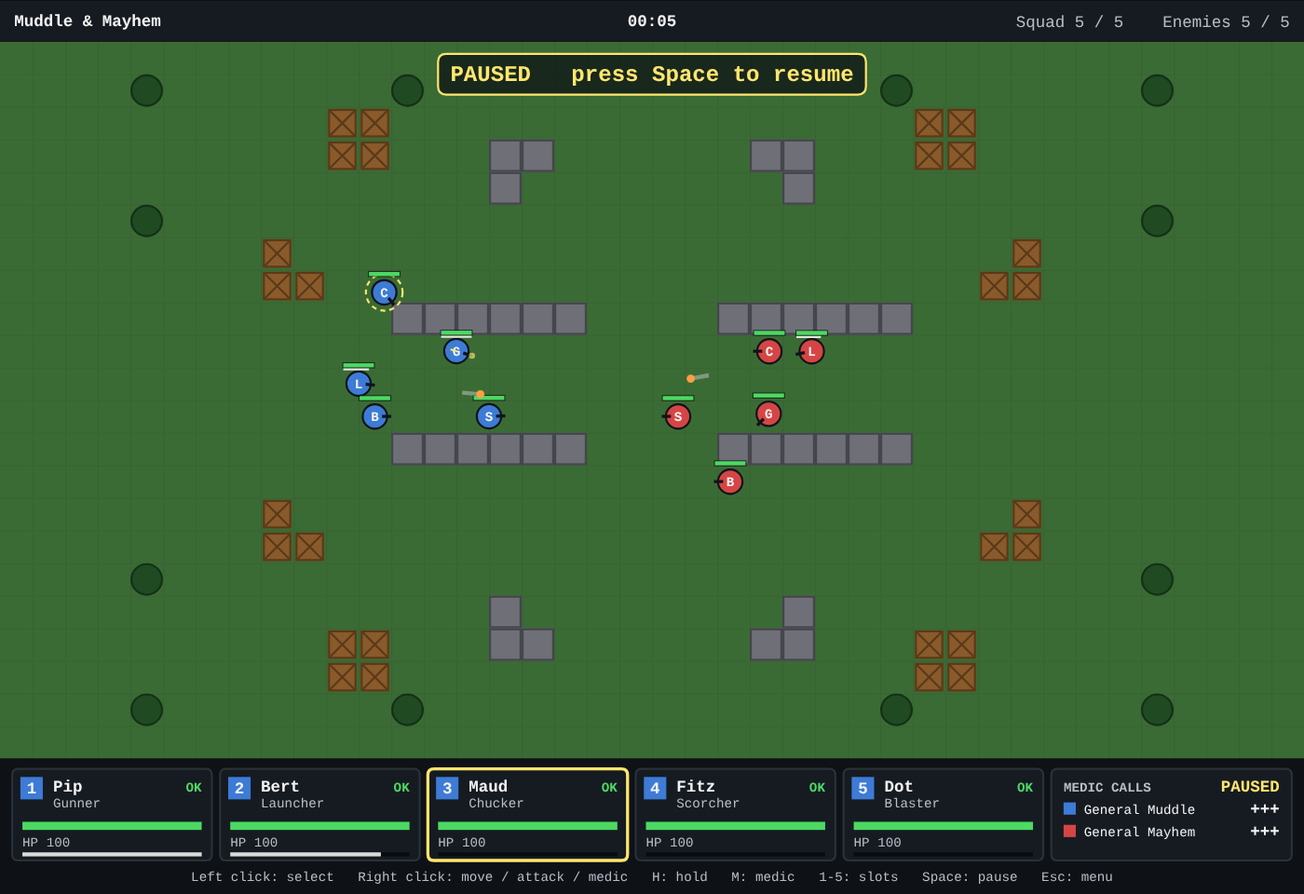
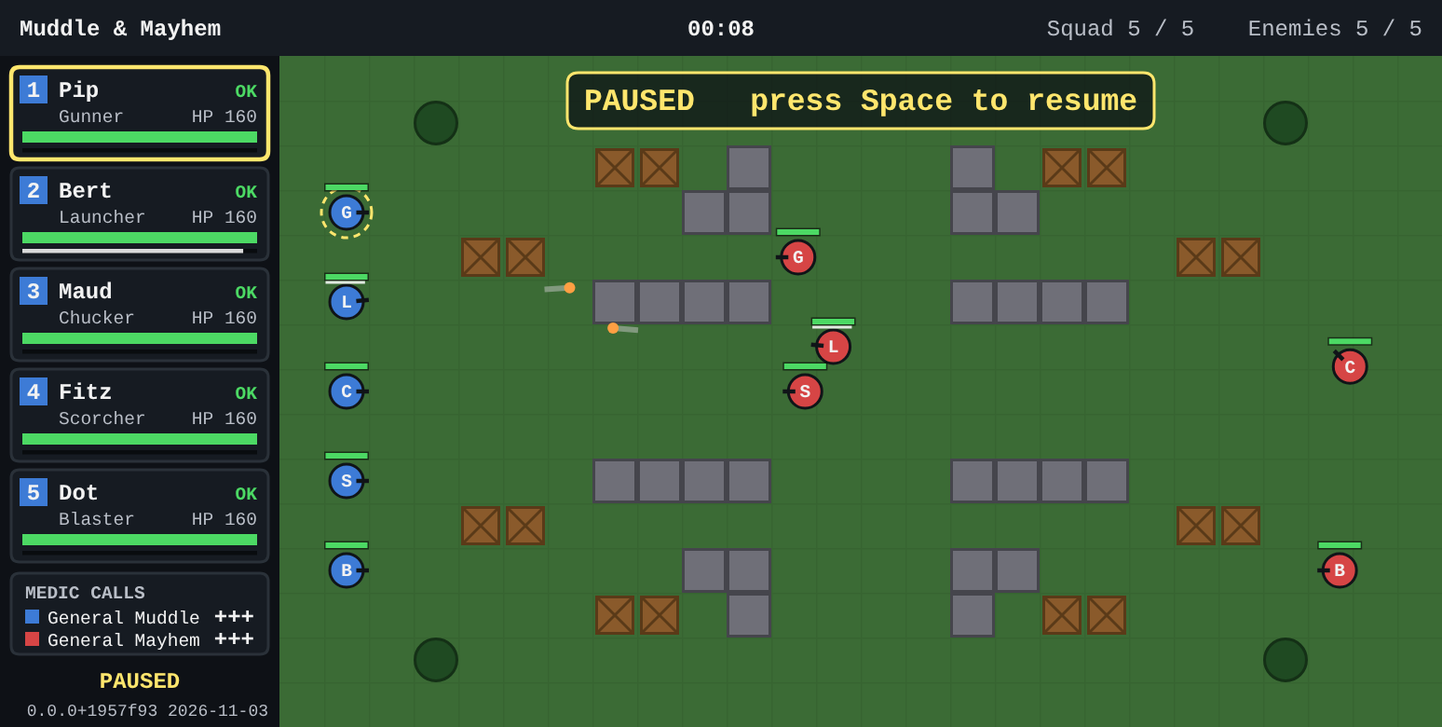
End to end tests, screenshots and README for the compact battlefield

diff --git a/e2e/play.spec.ts b/e2e/play.spec.ts
@@ -1,5 +1,7 @@
 import { expect, test } from '@playwright/test';
 import type { Page } from '@playwright/test';
+import { LOGICAL_WIDTH, TOP_BAR_HEIGHT, battleLayout } from '../src/render/renderConstants';
+import { hudCardRects, sidePanelRect } from '../src/ui/hud';
 import { resultButtons } from '../src/ui/result';
 
 // Plays a few seconds of a battle through the real page: title, start,
@@ -28,16 +30,23 @@ async function soldierClient(page: Page, id: number): Promise<{ x: number; y: nu
   }, id);
 }
 
+/** A hash of the canvas pixels inside a logical rectangle. */
+async function regionHash(page: Page, r: { x: number; y: number; w: number; h: number }): Promise<string> {
+  return page.locator('canvas#game').evaluate(
+    (c: HTMLCanvasElement, [x, y, w, h, logicalWidth]) => {
+      const scale = c.width / logicalWidth;
+      const d = c.getContext('2d')!.getImageData(Math.floor(x * scale), Math.floor(y * scale), Math.ceil(w * scale), Math.ceil(h * scale)).data;
+      let hash = 2166136261;
+      for (let i = 0; i < d.length; i += 4) hash = Math.imul(hash ^ (d[i] + 7 * d[i + 1] + 13 * d[i + 2]), 16777619);
+      return String(hash >>> 0);
+    },
+    [r.x, r.y, r.w, r.h, LOGICAL_WIDTH] as const,
+  );
+}
+
+/** The side panel beside the field, with the cards, medic calls, PAUSED and the build stamp. */
 async function hudPixels(page: Page): Promise<string> {
-  return page.locator('canvas#game').evaluate((c: HTMLCanvasElement) => {
-    const ctx = c.getContext('2d')!;
-    // the bottom fifth of the canvas is the HUD
-    const y = Math.floor(c.height * 0.85);
-    const d = ctx.getImageData(0, y, c.width, c.height - y).data;
-    let hash = 2166136261;
-    for (let i = 0; i < d.length; i += 16) hash = Math.imul(hash ^ d[i], 16777619);
-    return String(hash >>> 0);
-  });
+  return regionHash(page, sidePanelRect('blue'));
 }
 
 test('a battle can be started, ordered, run, and finished', async ({ page }) => {
@@ -80,7 +89,7 @@ test('a battle can be started, ordered, run, and finished', async ({ page }) => 
   const hudBefore = await hudPixels(page);
   await page.keyboard.press(' ');
   await page.waitForFunction(() => window.__mm!.tick >= 30, undefined, { timeout: 5000 });
-  // the PAUSED badge is gone and the clock has moved, so the HUD differs from the paused frame
+  // PAUSED is gone from the side panel and the cards have moved on, so the panel differs from the paused frame
   expect(await hudPixels(page)).not.toBe(hudBefore);
   const log = await page.evaluate(() => (window.__mm!.log as { type: string; side: string }[]));
   expect(log.filter((c) => c.side === 'blue').map((c) => c.type)).toEqual(['select', 'move', 'select', 'select', 'select', 'attack']);
@@ -135,6 +144,12 @@ test('A volleys the whole squad at the enemy under the cursor and S selects it',
 
   // Nothing selected: the volley still orders every standing soldier to stand fast, and waits in pending while paused.
   const target = await soldierClient(page, 8);
+  const targetLogical = await page.evaluate(() => {
+    const s = (window.__mm!.state as { soldiers: { x: number; y: number }[] }).soldiers[8];
+    return { x: s.x, y: s.y };
+  });
+  // the field around the target in logical canvas pixels: the field sits beside the side panel
+  const around = { x: battleLayout('blue').fieldX + targetLogical.x - 40, y: TOP_BAR_HEIGHT + targetLogical.y - 50, w: 80, h: 80 };
   await page.mouse.move(target.x + 3, target.y + 2);
   await page.keyboard.press('a');
   expect(await page.evaluate(() => [...window.__mm!.selection])).toEqual([]);
@@ -144,10 +159,21 @@ test('A volleys the whole squad at the enemy under the cursor and S selects it',
   // The volley cue is stamped on the next frame even though the battle is paused, then runs out in real time.
   await page.waitForFunction(() => (window.__mm!.volleyCue as { startMs: number | null } | null)?.startMs != null);
   expect(await page.evaluate(() => (window.__mm!.volleyCue as { targetId: number }).targetId)).toBe(8);
+  // the ring and the VOLLEY label are drawn over the target, at the field's place beside the side panel
+  const during = await regionHash(page, around);
   await page.waitForFunction(() => window.__mm!.volleyCue === null, undefined, { timeout: 3000 });
+  await page.waitForTimeout(100);
+  // once it runs out only the queued order's ghost reticle is left there
+  expect(await regionHash(page, around)).not.toBe(during);
 
   // S selects the whole squad.
   await page.keyboard.press('s');
   expect(await page.evaluate(() => [...window.__mm!.selection])).toEqual([0, 1, 2, 3, 4]);
+
+  // A click on the third card in the side panel selects Maud alone.
+  const card = hudCardRects('blue')[2];
+  const at = await page.evaluate(([x, y]) => window.__mm!.logicalToClient(x, y), [card.x + card.w / 2, card.y + card.h / 2] as const);
+  await page.mouse.click(at.x, at.y);
+  expect(await page.evaluate(() => [...window.__mm!.selection])).toEqual([2]);
   expect(errors).toEqual([]);
 });

diff --git a/src/ui/result.ts b/src/ui/result.ts
@@ -6,7 +6,7 @@
  * whether the clipboard took the text or the fallback overlay has it.
  */
 import { PALETTE, SIDE_COLOUR, SIDE_NAME } from '../render/palette';
-import { LOGICAL_HEIGHT, LOGICAL_WIDTH } from '../render/renderConstants';
+import { LOGICAL_HEIGHT, LOGICAL_WIDTH, TOP_BAR_HEIGHT } from '../render/renderConstants';
 import { standingCount } from '../sim';
 import type { BattleState, Side } from '../sim';
 import { stackButtons } from './buttons';
@@ -29,8 +29,9 @@ const COPY_LABEL: Readonly<Record<CopyState, string>> = {
   shown: 'Report shown below',
 };
 
+/** Centred in the space below the top bar. */
 function panelTop(): number {
-  return (LOGICAL_HEIGHT - RESULT.panelHeight) / 2;
+  return TOP_BAR_HEIGHT + (LOGICAL_HEIGHT - TOP_BAR_HEIGHT - RESULT.panelHeight) / 2;
 }
 
 /** The panel, centred on the canvas. */
@@ -59,7 +60,7 @@ export function resultButtons(copyState: CopyState): ButtonRect[] {
     panelTop() + RESULT.buttonsTop,
     BUTTON.width,
     BUTTON.height,
-    BUTTON.gap,
+    RESULT.buttonGap,
   );
 }
 
@@ -89,7 +90,7 @@ function drawTable(ctx: CanvasRenderingContext2D, panelX: number, rows: readonly
 }
 
 export function drawResult(ctx: CanvasRenderingContext2D, state: BattleState, playerSide: Side, view: ResultView): void {
-  const panel = drawOverlayPanel(ctx, LOGICAL_WIDTH, LOGICAL_HEIGHT, RESULT.panelWidth, RESULT.panelHeight);
+  const panel = drawOverlayPanel(ctx, LOGICAL_WIDTH, LOGICAL_HEIGHT, RESULT.panelWidth, RESULT.panelHeight, panelTop());
   const winner = state.winner;
   ctx.textAlign = 'center';
   ctx.textBaseline = 'alphabetic';

diff --git a/tests/ui/screenLayout.test.ts b/tests/ui/screenLayout.test.ts
@@ -1,5 +1,5 @@
 import { describe, expect, it } from 'vitest';
-import { LOGICAL_HEIGHT, LOGICAL_WIDTH } from '../../src/render/renderConstants';
+import { LOGICAL_HEIGHT, LOGICAL_WIDTH, TOP_BAR_HEIGHT } from '../../src/render/renderConstants';
 import type { Rect } from '../../src/ui/buttons';
 import { menuButtons, menuHintLines, menuPanelRect, menuSpeedRects } from '../../src/ui/menu';
 import { resultButtons, resultPanelRect, resultRowY } from '../../src/ui/result';
@@ -76,6 +76,8 @@ describe('result screen layout', () => {
   it('fits the panel in the canvas, every table row inside the panel above the buttons', () => {
     const panel = resultPanelRect();
     inside(panel, CANVAS);
+    // below the top bar, so the TUNED and SPEED badges stay visible behind the overlay
+    expect(panel.y).toBeGreaterThanOrEqual(TOP_BAR_HEIGHT);
     const firstButton = resultButtons('idle')[0];
     for (let i = 0; i < RESULT.tableRows; i++) {
       const y = resultRowY(i);

diff --git a/src/ui/drawButtons.ts b/src/ui/drawButtons.ts
@@ -32,11 +32,19 @@ export function drawButton(ctx: CanvasRenderingContext2D, b: ButtonRect): void {
 }
 
 /** A dim overlay over the whole canvas and a centred panel of the given size; returns the panel's top-left. */
-export function drawOverlayPanel(ctx: CanvasRenderingContext2D, canvasW: number, canvasH: number, panelW: number, panelH: number): { x: number; y: number } {
+/** Dims the whole canvas and draws a panel, centred unless `top` is given. */
+export function drawOverlayPanel(
+  ctx: CanvasRenderingContext2D,
+  canvasW: number,
+  canvasH: number,
+  panelW: number,
+  panelH: number,
+  top?: number,
+): { x: number; y: number } {
   ctx.fillStyle = PALETTE.overlay;
   ctx.fillRect(0, 0, canvasW, canvasH);
   const x = (canvasW - panelW) / 2;
-  const y = (canvasH - panelH) / 2;
+  const y = top ?? (canvasH - panelH) / 2;
   roundRect(ctx, x, y, panelW, panelH, PANEL.radius);
   ctx.fillStyle = PALETTE.panel;
   ctx.fill();

diff --git a/src/ui/uiConstants.ts b/src/ui/uiConstants.ts
@@ -152,10 +152,14 @@ export const MENU = {
   hintStep: 18,
 } as const;
 
-/** The result screen: a wider panel holding the winner lines, the per-class report table and three buttons. */
+/**
+ * The result screen: a wider panel holding the winner lines, the per-class
+ * report table and three buttons. It sits below the top bar, so the TUNED
+ * and SPEED badges stay visible (dimmed) behind the overlay.
+ */
 export const RESULT = {
   panelWidth: 760,
-  panelHeight: 500,
+  panelHeight: 470,
   headingY: 44,
   standingY: 72,
   infoY: 94,
@@ -164,7 +168,8 @@ export const RESULT = {
   rowHeight: 15,
   /** Header plus five classes and a total per side. */
   tableRows: 13,
-  buttonsTop: 318,
+  buttonsTop: 310,
+  buttonGap: 10,
 } as const;
 
 /** The debug overlay: a translucent panel in the top-right corner of the battlefield, below the paused banner. */

diff --git a/docs/superpowers/plans/2026-11-03-plan-7-compact-battlefield.md b/docs/superpowers/plans/2026-11-03-plan-7-compact-battlefield.md
@@ -122,10 +122,10 @@ export function hudCardRects(playerSide: Side): ButtonRect[];   // five, stacked
 export function sidePanelRect(playerSide: Side): ButtonRect;
 ```
 
-- [ ] **Step 1: Failing tests.** `layout.test.ts`: `LOGICAL_WIDTH` 1032, `LOGICAL_HEIGHT` 520, field 832 × 480; `battleLayout('blue')` is `{ panelX: 0, fieldX: 200, top: 40 }` and `battleLayout('red')` `{ panelX: 832, fieldX: 0, top: 40 }`; the blue renderer's `worldToScreen(0, 0)` is (200, 40), `onField(199, 100)` false, `onField(200, 40)` true, `onField(1031, 519)` true. `hud.test.ts`: for both sides the five card rects lie inside `sidePanelRect`, are in slot order top to bottom, do not overlap, and leave at least 70 pixels below the last card for medic calls, pause status and build stamp. `app.test.ts`: in a battle, a left click at the centre of card *i* selects blue soldier *i* (and shift-click adds), a click in the panel below the cards selects nothing. `battle.test.ts`: `createBattle({ seed: 1 }).map` is `COMPACT_CROSSROADS`.
-- [ ] **Step 2: Run; expect failures.**
-- [ ] **Step 3: Implement.** Switch the default; derive sizes; the renderer takes the player side; `drawHud` draws the top bar across the full width, fills the panel, the stacked cards (content per decision 5), the medic calls, PAUSED and the build stamp; the controls hint is no longer drawn in battle; the paused banner and debug overlay centre or right-align on the field. Fix the tests that pinned Crossroads by default by passing `map: CROSSROADS` where the test is about Crossroads geometry.
-- [ ] **Step 4: `npm run check` green.** Commit `Compact Crossroads by default, side panel beside the field`.
+- [x] **Step 1: Failing tests.** `layout.test.ts`: `LOGICAL_WIDTH` 1032, `LOGICAL_HEIGHT` 520, field 832 × 480; `battleLayout('blue')` is `{ panelX: 0, fieldX: 200, top: 40 }` and `battleLayout('red')` `{ panelX: 832, fieldX: 0, top: 40 }`; the blue renderer's `worldToScreen(0, 0)` is (200, 40), `onField(199, 100)` false, `onField(200, 40)` true, `onField(1031, 519)` true. `hud.test.ts`: for both sides the five card rects lie inside `sidePanelRect`, are in slot order top to bottom, do not overlap, and leave at least 70 pixels below the last card for medic calls, pause status and build stamp. `app.test.ts`: in a battle, a left click at the centre of card *i* selects blue soldier *i* (and shift-click adds), a click in the panel below the cards selects nothing. `battle.test.ts`: `createBattle({ seed: 1 }).map` is `COMPACT_CROSSROADS`.
+- [x] **Step 2: Run; expect failures.**
+- [x] **Step 3: Implement.** Switch the default; derive sizes; the renderer takes the player side; `drawHud` draws the top bar across the full width, fills the panel, the stacked cards (content per decision 5), the medic calls, PAUSED and the build stamp; the controls hint is no longer drawn in battle; the paused banner and debug overlay centre or right-align on the field. Fix the tests that pinned Crossroads by default by passing `map: CROSSROADS` where the test is about Crossroads geometry.
+- [x] **Step 4: `npm run check` green.** Committed together with Task 5 (they share `uiConstants.ts`, and the result screen had to fit 520 before the suite could pass) as `Compact Crossroads by default, side panel beside the field, screens fitted to 520 high`.
 
 ### Task 5: Title, menu and result refitted to 520 (PR 3)
 
@@ -147,10 +147,10 @@ export function resultRowY(i: number): number;   // centre line of table row i
 ```
 (`Rect` is `{ x, y, w, h }`; reuse `ButtonRect`'s shape if one exists.)
 
-- [ ] **Step 1: Failing tests.** Title: every `titleLayout()` element inside 1032 × 520 and no two overlapping (portraits, start, hint, speed segments, controls block, build). Menu: panel inside the canvas; buttons, speed segments and both hint lines inside the panel; each hint line at `FONT.small` fits the panel width (count characters × 7.8). Result: panel inside the canvas; all thirteen `resultRowY` lines (header plus twelve) inside the panel and above the first button; all three buttons inside the panel and the canvas.
-- [ ] **Step 2: Run; expect failures.**
-- [ ] **Step 3: Implement.** Title: portraits flank the title text instead of sitting below it, Skirmish and its hint, the speed selector, then the controls list, build stamp bottom-right. Menu: wider, taller panel with the two hint lines at its foot. Result: panel 760 × 500, rows 15 high, tighter heading, standing and info lines, buttons stacked below the table.
-- [ ] **Step 4: `npm run check` green.** Commit `Title, menu and result screens fit 520 high`.
+- [x] **Step 1: Failing tests.** Title: every `titleLayout()` element inside 1032 × 520 and no two overlapping (portraits, start, hint, speed segments, controls block, build). Menu: panel inside the canvas; buttons, speed segments and both hint lines inside the panel; each hint line at `FONT.small` fits the panel width (count characters × 7.8). Result: panel inside the canvas; all thirteen `resultRowY` lines (header plus twelve) inside the panel and above the first button; all three buttons inside the panel and the canvas.
+- [x] **Step 2: Run; expect failures.**
+- [x] **Step 3: Implement.** Title: portraits flank the title text instead of sitting below it, Skirmish and its hint, the speed selector, then the controls list, build stamp bottom-right. Menu: wider, taller panel with the two hint lines at its foot. Result: panel 760 × 470 below the top bar (so the badges stay visible), rows 15 high, tighter heading, standing and info lines, buttons stacked below the table.
+- [x] **Step 4: `npm run check` green.** Commit `Title, menu and result screens fit 520 high`.
 
 ### Task 6: Reports name the map (PR 3)
 
@@ -158,20 +158,20 @@ export function resultRowY(i: number): number;   // centre line of table row i
 - Modify: `src/stats/reportText.ts`, `src/game/app.ts`
 - Test: `tests/stats/reportText.test.ts`, `tests/sim/replay.test.ts`
 
-- [ ] **Step 1: Failing tests.** `formatReportMarkdown(stats, log, 1, 'dev', 'compact')` contains `- Map: Compact Crossroads (\`compact\`)\n` after the build line and `replayBattle(<seed>, log, <ticks>, MAPS.compact)`; with `'crossroads'` it names `Crossroads` and `MAPS.crossroads`; with no fifth argument it uses `DEFAULT_MAP_ID`. Replay: a 900-tick AI-versus-AI battle on `MAPS.crossroads` replays to the same hash with `replayBattle(seed, log, 900, MAPS.crossroads)`, and the same call without the map does not match.
-- [ ] **Step 2: Run; expect failures.**
-- [ ] **Step 3: Implement**; the app passes `mapIdOf(session.state.map) ?? DEFAULT_MAP_ID`.
-- [ ] **Step 4: `npm run check` green.** Commit `Battle report names its map`.
+- [x] **Step 1: Failing tests.** `formatReportMarkdown(stats, log, 1, 'dev', 'compact')` contains `- Map: Compact Crossroads (\`compact\`)\n` after the build line and `replayBattle(<seed>, log, <ticks>, MAPS.compact)`; with `'crossroads'` it names `Crossroads` and `MAPS.crossroads`; with no fifth argument it uses `DEFAULT_MAP_ID`. Replay: a 900-tick AI-versus-AI battle on `MAPS.crossroads` replays to the same hash with `replayBattle(seed, log, 900, MAPS.crossroads)`, and the same call without the map does not match.
+- [x] **Step 2: Run; expect failures.**
+- [x] **Step 3: Implement**; the app passes `mapIdOf(session.state.map) ?? DEFAULT_MAP_ID`.
+- [x] **Step 4: `npm run check` green.** Commit `Battle report names its map`.
 
 ### Task 7: End to end, screenshots, README (PR 3)
 
 **Files:**
 - Modify: `e2e/play.spec.ts`, `e2e/tune.spec.ts`, `README.md`, `docs/screenshots/*.png`
 
-- [ ] **Step 1: Update the e2e tests** to the new layout: start, select a soldier by clicking it through `worldToClient`, order a move, finish via `advanceTicks`; the volley cue pixel check at the new target position; TUNED and SPEED badge pixel checks at their rects; any check that read "the bottom fifth is the HUD" reads the side panel instead.
-- [ ] **Step 2: `npm run build && PW_CHROMIUM_PATH=/opt/pw-browsers/chromium npm run test:e2e` green.**
-- [ ] **Step 3: Regenerate** title, battle, medic, result and debug screenshots with a short Playwright script against the build (not committed), and update README text that describes the map size, the layout or the HUD.
-- [ ] **Step 4: Decision lines** for decisions 4 to 7. Commit `End to end tests, screenshots and README for the compact battlefield`. Open PR 3 "Compact battlefield on screen", cut from PR 2's branch.
+- [x] **Step 1: Update the e2e tests** to the new layout: start, select a soldier by clicking it through `worldToClient`, order a move, finish via `advanceTicks`; the volley cue pixel check at the new target position; TUNED and SPEED badge pixel checks at their rects; any check that read "the bottom fifth is the HUD" reads the side panel instead.
+- [x] **Step 2: `npm run build && PW_CHROMIUM_PATH=/opt/pw-browsers/chromium npm run test:e2e` green.**
+- [x] **Step 3: Regenerate** title, battle, medic, result and debug screenshots with a short Playwright script against the build (not committed), and update README text that describes the map size, the layout or the HUD.
+- [x] **Step 4: Decision lines** for decisions 4 to 7. Commit `End to end tests, screenshots and README for the compact battlefield`. Open PR 3 "Compact battlefield on screen", cut from PR 2's branch.
 
 ### Task 8: Measure on Compact Crossroads; tune only where a guard fails; close
 

diff --git a/README.md b/README.md
@@ -7,13 +7,21 @@ with Claude Code as a learning project.
 
 **Play it:** https://karlnewell.github.io/muddle-and-mayhem/
 
-![A paused battle on the Crossroads map](docs/screenshots/battle.png)
+![A paused battle on Compact Crossroads, with the squad's cards in the side panel](docs/screenshots/battle.png)
 
 ## How to play
 
 You are General Muddle (blue, left). The computer is General Mayhem (red,
 right). Each side has five soldiers, one per class: Gunner, Launcher,
 Chucker, Scorcher, Blaster. Last squad standing wins.
+
+The battlefield is **Compact Crossroads**: 26 by 15 tiles, the whole field
+on one screen, two roads crossing between four wall arms, with crates and
+trees for cover and the squads starting 23 tiles apart. Beside it, on your
+side, a side panel holds your five soldier cards (name, class, HP and
+status, in slot order), both sides' medic calls, the pause status and the
+build. The top bar shows the clock and how many soldiers each side has
+standing.
 
 The battle starts **paused** so you can give the first orders. Press Space
 to let it run; press Space again whenever you want to think. Orders given
@@ -22,7 +30,7 @@ while paused are taken at once and shown as faint markers.
 | Input | What it does |
 |---|---|
 | Left click a blue soldier | Select it (Shift adds to the selection) |
-| Keys 1 to 5, or click a HUD card | Select by slot (Shift adds) |
+| Keys 1 to 5, or click a soldier card in the side panel | Select by slot (Shift adds) |
 | S | Select the whole squad, so the next right click moves or attacks with everyone |
 | Right click the ground | Move the selected soldiers there |
 | Right click an enemy | Attack it: move into range, fire until it drops, then hold |
@@ -31,7 +39,7 @@ while paused are taken at once and shown as faint markers.
 | H | Hold position and fire at anything in range |
 | M | Call the medic for a selected downed soldier |
 | Space | Pause and resume |
-| Esc | Menu: resume, restart, back to the title, game speed |
+| Esc | Menu: resume, restart, back to the title, game speed, and a reminder of the keys |
 | Left / Right arrows | On the title screen or in the menu, step the game speed between 0.5x, 0.75x and 1x |
 
 Walls, crates and trees block movement and straight shots. Grenades and
@@ -54,7 +62,7 @@ can carry everything needed to reproduce a battle.
 
 The build the page came from (package version, short commit and UTC build
 date, for example `0.0.0+b11b13d 2026-11-03`) shows small in the
-bottom-right corner of the title screen and of the HUD, and as
+bottom-right corner of the title screen and at the foot of the side panel, and as
 `window.__mm.build`, so a playtest can say exactly what it ran on.
 
 Press D during a battle for a debug overlay listing every soldier's HP,
@@ -112,8 +120,10 @@ failing. The names it accepts are the tunables in `src/sim/constants.ts`.
 shots, hits, hit rate, damage dealt and taken, downs inflicted, times
 downed, instant kills, seconds spent downed and medic calls used. **Copy
 report** puts a Markdown block on the clipboard with that table, the seed,
-the build, the overrides, the speed and the full command log, ready to paste into an issue;
-anyone can replay the battle from it. When the clipboard is unavailable the
+the build, the map, the overrides, the speed and the full command log, ready to paste into an issue;
+anyone can replay the battle from it with the `replayBattle` call it names
+(reports from before the map changed have no `Map:` line and ran on
+Crossroads: `replayBattle(seed, log, ticks, MAPS.crossroads)`). When the clipboard is unavailable the
 text appears in a box you can select by hand. `window.__mm.report()`
 returns the same text and `window.__mm.stats` the raw numbers.
 
@@ -126,12 +136,15 @@ the browser report shows. Pass the same JSON:
 npm run measure -- '{"WEAPONS":{"launcher":{"cooldown":180}}}'
 ```
 
-`--seeds=N`, `--first-seed=N` and `--cap=SECONDS` widen the run.
+`--seeds=N`, `--first-seed=N` and `--cap=SECONDS` widen the run;
+`--map=compact` (the default, the map the game plays) or `--map=crossroads`
+(the larger map before Plan 7) picks the battlefield.
 `--blue=passive` plays a blue squad that never moves; `--blue=holdline` a
 scripted squad that walks to cover by the left wall gap, holds, focuses
 fire on the enemy most of the squad can see, calls medics when a body is
-not under fire and advances only when it outnumbers the enemy. Under the
-shipped balance, over 180 seeds, the computer wins 55% against itself,
+not under fire and advances only when it outnumbers the enemy; it has its
+own posts on each map. On Crossroads under the shipped balance, over 180
+seeds, the computer wins 55% against itself,
 100% against the passive squad and 72% against the hold-line squad (100%
 before Plan 6 moved its posts beside the wall arms, made cover soak splash
 and had the computer's lobbers wait for contact), which is a result about
@@ -154,7 +167,9 @@ static defence as much as about balance.
 
 The whole battle runs without a browser. `runBattle` drives it with
 controllers and records every command; `replayBattle` rebuilds it from the
-seed and that log alone. Same seed plus same log gives the same state, bit
+seed and that log alone (pass the map as a fourth argument, for example
+`MAPS.crossroads`, for a battle that did not run on the default map). Same
+seed plus same log gives the same state, bit
 for bit, which is what `tests/sim/replay.test.ts` asserts under `npm test`.
 `state.events` holds only the current tick's events and is cleared at the
 start of every `step`, so a caller that runs several steps per frame must

diff --git a/docs/decisions.md b/docs/decisions.md
@@ -112,6 +112,11 @@ One dated line per decision. Newest at the bottom. The roadmap lives at the end.
 - 2026-11-03: `npm run measure -- --map=crossroads|compact`; the default follows `DEFAULT_MAP_ID`, so a bare run measures what the game plays, and the header prints the map. `scripts/holdline.mts` keys its posts by map id (`HOLD_POSTS`) and looks them up from `state.map` every think; a map without posts throws at the first think instead of walking soldiers to another map's tiles.
 - 2026-11-03: Hold-line posts on Compact Crossroads. Candidates, seeds 1 to 60 (blue wins, median length, red downs per battle): A, the Crossroads pattern moved over literally (Gunner (6, 5), Launcher (3, 7), Chucker (6, 9), Scorcher (6, 7) in the road mouth, Blaster (4, 9)): 4, 63.1 s, 5; A2, A with the Scorcher one tile back at (5, 7): 28, 67.0 s, 7; D, A2 with the Launcher at (3, 6) and the Blaster at (3, 9): 34, 69.9 s, 8. Over seeds 61 to 180: A 5 of 120, A2 51, D 67. Three wider sets (Gunner and Chucker on the crates, the Scorcher in the gap, the squad pulled back to column 3) won 0 to 1 of 60. Chosen: A2. It keeps the Crossroads pattern and the Launcher on the road axis, and puts the flamer a step behind the corner, where a charger has to round the arm ends to reach it, which is how a person holds a gap; standing in the mouth itself let every red weapon reach it first. The win rate is very sensitive to that one tile, so the hold-line number on this map measures the Scorcher's post as much as the balance.
 - 2026-11-03: Plan 7 baseline, seeds 1 to 60, constants unchanged (blue wins, median length, first damage, red downs per battle, share of enemy downs Gunner / Launcher / Chucker / Scorcher / Blaster). Crossroads: AI 36 (60%), 62.7 s, 9.1 s, 8, 16 / 26 / 19 / 22 / 17%; passive 0, 60.8 s, 15.7 s, 3; hold-line 16 (27%), 71.2 s, 10.4 s, 5. Compact Crossroads: AI 31 (52%), 57.8 s, 4.8 s, 8, 13 / 24 / 20 / 28 / 15%; passive 0, 47.9 s, 8.5 s, 2; hold-line 28 (47%), 67.0 s, 7.3 s, 7. On the compact map every AI-versus-AI guard and the passive guard pass; the hold-line squad wins more than the 25 to 35% target. Crossroads AI versus AI reads 62.7 s and 60% against Plan 6's closing 64.7 s and 63% because of the AI firing-tile fixes merged since.
+- 2026-11-03: Compact Crossroads is the default map (`DEFAULT_MAP_ID` `compact`): `createBattle`, the renderer's field size and a bare `npm run measure` all follow it. The logical canvas is 1032 by 520, the top bar 40 high across the full width and below it the 200 by 480 side panel beside the 832 by 480 field. `battleLayout(playerSide)` in `renderConstants.ts` places them: panel at x 0 and field at x 200 for blue, field at x 0 and panel at x 832 for red. The game passes blue only, but the renderer, the HUD and the paused banner take the side, so a future player commanding red gets the panel on the right with no other change. The field's offset goes through the existing projection, so picking, effects, the volley cue, the medic runner and `window.__mm.worldToClient` follow without arithmetic of their own; a layout test pins `onField` at the panel's edge.
+- 2026-11-03: Side-panel cards are 184 by 66, stacked in slot order from 8 pixels below the top bar with 6 between: slot box, name and status on the first line, class and `HP n` on the second, the HP bar and a thin cooldown bar (kept: it is how a Launcher's reload shows). Below them sit the medic calls for both sides, PAUSED while paused, and the build stamp at the foot. A click on a card selects that slot as before (an app test clicks each card). The one-line controls hint left the battle screen; it is split into two lines (`CONTROLS_HINT_LINES`) at the foot of the Esc menu, which widened to 760 by 410, and the title screen keeps its longer controls list.
+- 2026-11-03: Screens fitted to 520 high. Title: the generals' portraits (radius 44) flank the name instead of sitting under it, then Skirmish and its hint, the speed selector and the controls list, with the build bottom-right; `titleLayout()` returns every element's box from monospace character widths (`TEXT_CHAR_WIDTH`, 0.6 em) and a test asserts none overlap or leave the canvas. Result: a 760 by 470 panel, rows 15 high, buttons 10 apart, placed below the top bar rather than centred, because a centred panel covered the TUNED and SPEED badges and a tuned result screen would then pass for shipped balance in a screenshot; the e2e test still reads the dimmed badge there.
+- 2026-11-03: Reports name their map. The Copy report summary has `- Map: Compact Crossroads (\`compact\`)` after the build line, and its replay instruction reads `replayBattle(seed, log, ticks, MAPS.compact)`; `formatReportMarkdown` takes the `MapId` as a fifth argument (default `DEFAULT_MAP_ID`) and the app passes `mapIdOf(state.map)`. A report without a `Map:` line predates the switch and ran on Crossroads; a replay test runs a Crossroads battle and checks that it replays with `MAPS.crossroads` and diverges without it.
+- 2026-11-03: README screenshots regenerated at the new layout, 1548 by 780 (the 1032 by 520 canvas at 1.5 device pixels), with a throwaway Playwright script against the production build, as before.
 
 ## Roadmap
 
